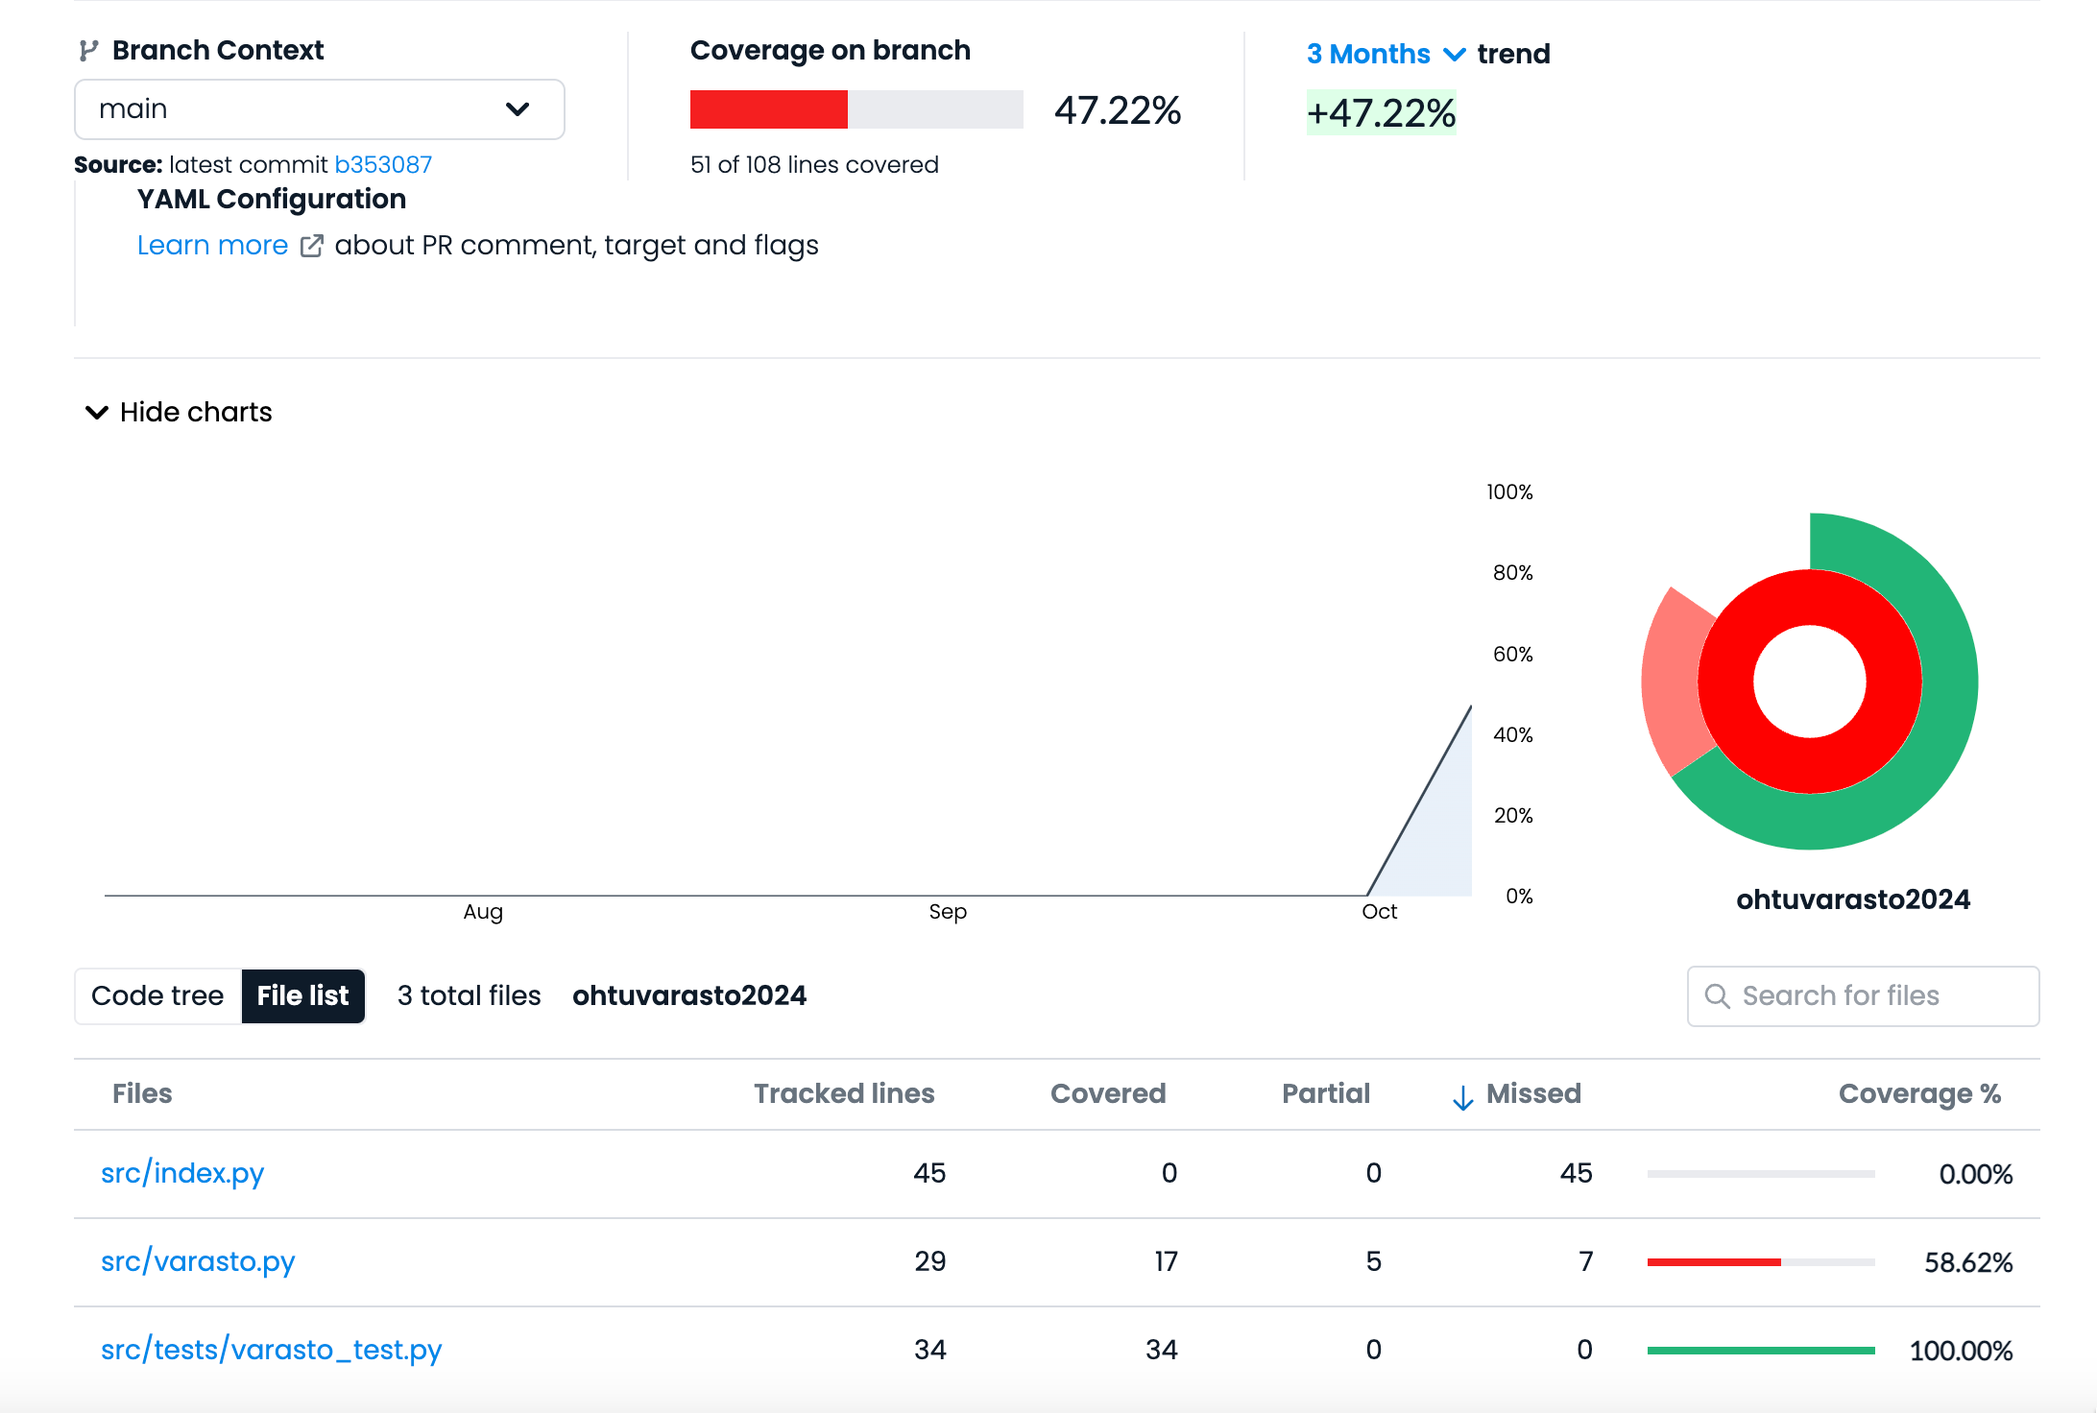
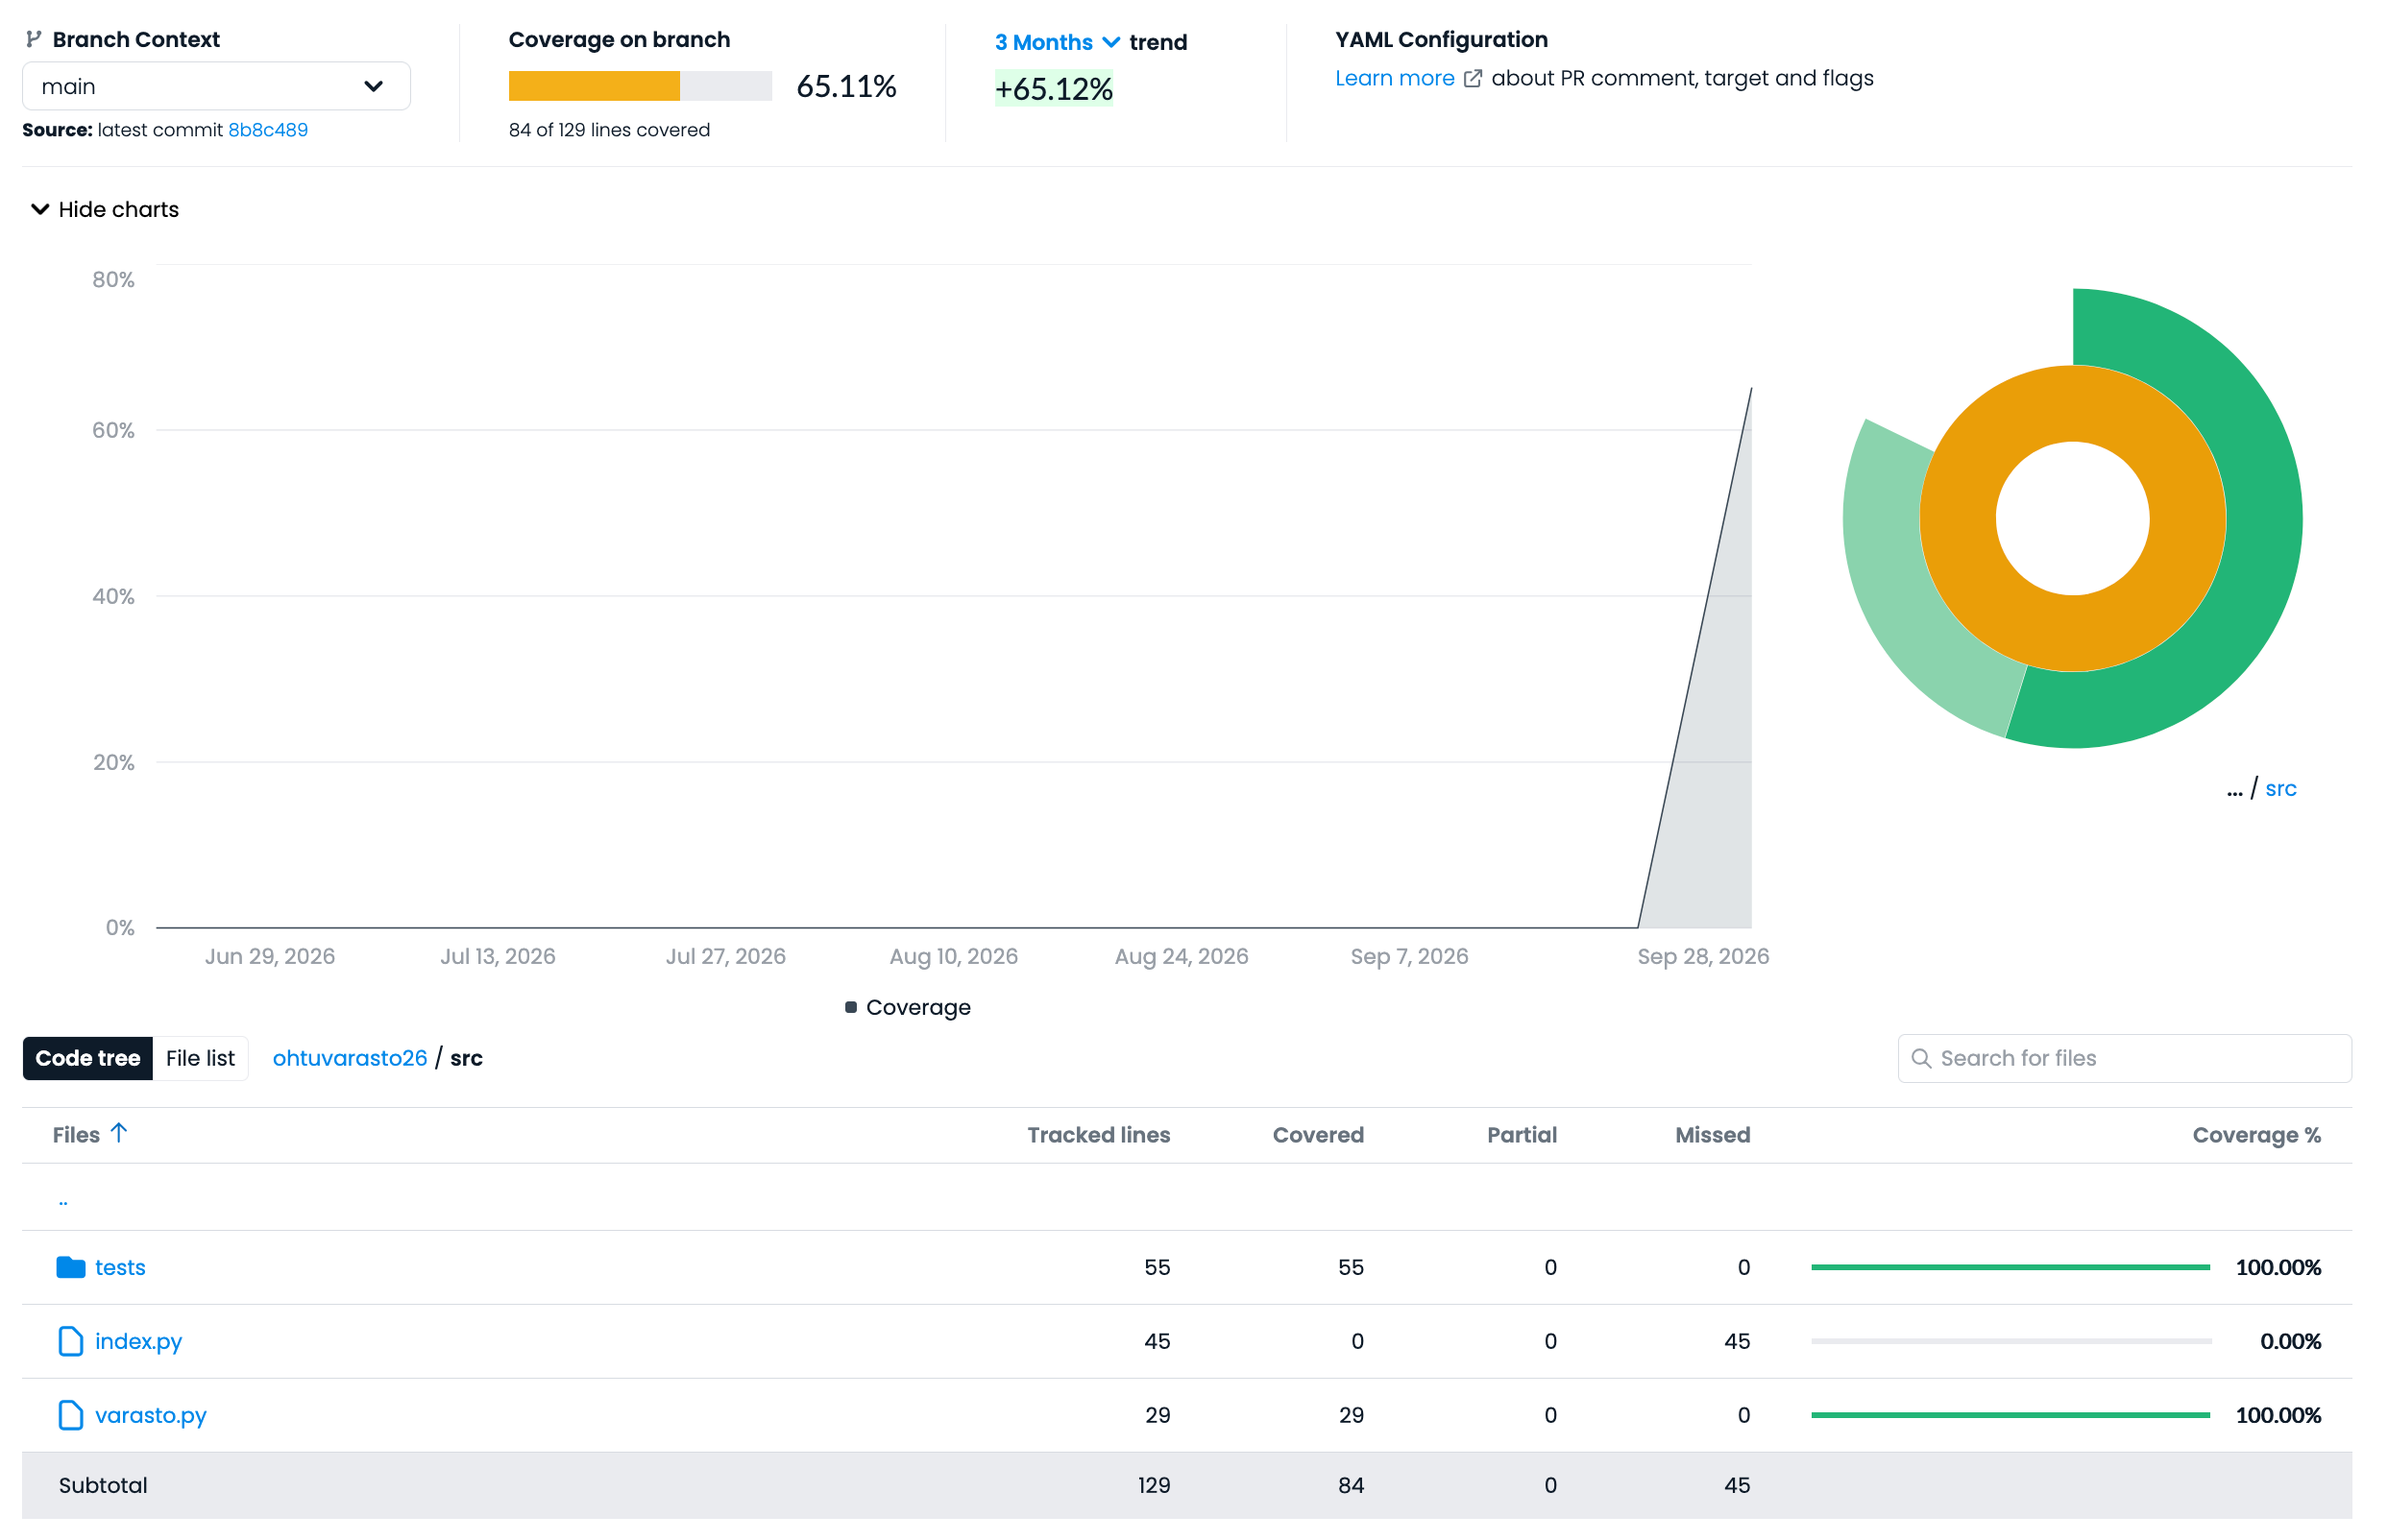
ccov

diff --git a/tehtavat1.md b/tehtavat1.md
@@ -554,7 +554,7 @@ GitHub siis committoi uuden tiedoston automaattisesti repositorioosi.
 
 <input type="checkbox"> Pullaa repositorion koodi omalle koneellesi. Konfiguraatiotiedosto näkyy nyt myös siellä, esim. Visual Studio Code -editorilla se näyttää seuraavalta:
 
-![]({{ "/images/lh1-3-25.png" | relative_url }})
+![]({{ "/images/workflow.png" | relative_url }})
 
 <input type="checkbox"> Avaa repositorion välilehti _Actions_, huomaat että sinne on ilmestynyt hieman tavaraa:
 
@@ -589,6 +589,7 @@ jobs:
         run: uv sync
       - name: Run tests
         run: uv run coverage run --branch -m pytest
+
 ```
 
 Kohta [on](https://docs.github.com/en/free-pro-team@latest/actions/reference/workflow-syntax-for-github-actions#onpushpull_requestbranchestags) määrittelee missä tilanteissa actionit suoritetaan. Konfiguraatiomme määrää, että actionit suoritetaan aina kun repositorion päähaaraan pushataan koodia.
@@ -611,7 +612,7 @@ suorittaa valmiiksi määritellyn actionin [checkout](https://github.com/marketp
 
 Eli _checkout_ action siis hakee repositorion koodin askeleet suorittavalle virtuaalikoneelle.
 
-Toinen askel on action [setup-uv](https://github.com/astral-sh/setup-uv), joka asentaa työn suorittavalle virtuaalikoneelle uv:n, sekä `python-version`-parametrin avulla myös haluamamme Python-version. Jostain syystä versionumero on annettava hipsuissa, eli muodossa '3.14'. Toisin kuin Poetryn kanssa, erillistä setup-python-actionia ei siis tarvita, sillä uv osaa asentaa Python-version itse.
+Toinen askel on action [setup-uv](https://github.com/astral-sh/setup-uv), joka asentaa työn suorittavalle virtuaalikoneelle uv:n, sekä `python-version`-parametrin avulla myös haluamamme Python-version. Versionumero kannattaa antaa lainausmerkeissä, eli muodossa `"3.14"`, sillä muuten YAML tulkitsee sen liukuluvuksi, jolloin esim. versio `3.10` muuttuisi muotoon `3.1`.
 
 ```yml
 - name: Install uv
@@ -635,11 +636,11 @@ Neljäs askel on kaikkein tärkein, se suorittaa uv:n avulla projektin testit ja
 
 Hetken kuluttua actions-välilehdellä pitäisi näkyä että commiteja on kaksi, ja että viimeisin on tilaltaan "punainen":
 
-![]({{ "/images/py-lh1-24-22.png" | relative_url }})
+![]({{ "/images/broken1.png" | relative_url }})
 
 Klikkaamalla rikki mennyttä committia, päästään tarkastelemaan hieman tarkemmin actionin suorituksen etenemistä:
 
-![]({{ "/images/py-lh1-25-22.png" | relative_url }})
+![]({{ "/images/broken2.png" | relative_url }})
 
 Kuten odotettua, testi ei mennyt läpi. Riippuen GitHubin asetuksista, olet myös saattanut saada email-muistutuksen rikki menneestä buildista.
 
@@ -658,25 +659,25 @@ https://github.com/OWNER/REPOSITORY/actions/workflows/WORKFLOW-FILE/badge.svg
 Esimerkiksi omassa tapauksessani badgelinkki on
 
 ```
-https://github.com/mluukkai/ohtuvarasto/actions/workflows/main.yml/badge.svg
+https://github.com/mattiluukkainen/ohtuvarasto26/actions/workflows/main.yml/badge.svg
 ```
 
 <input type="checkbox"> Lisää badge editoimalla tiedostoa _README.md_ suoraan GitHubissa:
 
-![]({{ "/images/py-lh1-27-22.png" | relative_url }})
+![]({{ "/images/badge1.png" | relative_url }})
 
 Oikein toimiva badge näyttää seuraavalta:
 
-![]({{ "/images/py-lh1-28-22.png" | relative_url }})
+![]({{ "/images/badge1.png" | relative_url }})
 
 Badge toimii siis sen indikaattorina onko repositoriossasi oleva koodi testien puolesta kunnossa!
 
 <input type="checkbox"> Tee nyt jokin muutos koneellasi repositorioon johonkin muuhun tiedostoon kuin README.md ja yritä pushata koodi GitHubiin. Toimenpiteestä seuraa virhe:
 
 ```
-To github.com:mluukkai/ohtuvarasto.git
+To github.com:mattiluukkainen/ohtuvarasto26.git
  ! [rejected]        main -> main (fetch first)
-error: failed to push some refs to 'git@github.com:mluukkai/ohtuvarasto.git'
+error: failed to push some refs to 'git@github.com:mattiluukkainen/ohtuvarasto26.git'
 hint: Updates were rejected because the remote contains work that you do
 hint: not have locally. This is usually caused by another repository pushing
 hint: to the same ref. You may want to first integrate the remote changes
@@ -695,7 +696,7 @@ remote: Enumerating objects: 5, done.
 remote: Counting objects: 100% (5/5), done.
 remote: Total 3 (delta 0), reused 0 (delta 0), pack-reused 0
 Unpacking objects: 100% (3/3), 645 bytes | 215.00 KiB/s, done.
-From github.com:mluukkai/ohtuvarasto2
+From github.com:mattiluukkainen/ohtuvarasto26
    6f1cd65..aa6c099  main       -> origin/main
 hint: You have divergent branches and need to specify how to reconcile them.
 hint: You can do so by running one of the following commands sometime before
@@ -709,6 +710,7 @@ hint: You can replace "git config" with "git config --global" to set a default
 hint: preference for all repositories. You can also pass --rebase, --no-rebase,
 hint: or --ff-only on the command line to override the configured default per
 hint: invocation.
+fatal: Need to specify how to reconcile divergent branches.
 ```
 
 Käytännössä Git haluaa tietää minkälaisella strategialla paikallisen ja etärepositoriosi koodi tulisi yhdistää. Vaihtoehdoista kannattanee valita keskimäinen.
@@ -725,7 +727,7 @@ Käytännössä valittu vaihtoehto tarkoittaa sitä, että Git suorittaa uudet l
 
 Jos muutit paikallisesti tiedostoa README.md, saatoit aiheuttaa ns. merge-konfliktin jonka selvittämiseen vaaditaan jo hieman vaivaa. Palaamme asiaan tulevilla viikoilla...
 
-<input type="checkbox"> **Tee vielä** lopuksi badgestasi linkki Actions-välilehdelle. Eli kun badgea painetaan, tulee selaimen ohjautua repositorion Actions-välilehdelle, esim. omassa tapauksessani osoitteeseen <https://github.com/mluukkai/ohtuvarasto/actions>
+<input type="checkbox"> **Tee vielä** lopuksi badgestasi linkki Actions-välilehdelle. Eli kun badgea painetaan, tulee selaimen ohjautua repositorion Actions-välilehdelle, esim. omassa tapauksessani osoitteeseen <https://github.com/mattiluukkainen/ohtuvarasto26/actions>
 
 ### 12. Codecov
 
@@ -735,17 +737,19 @@ Tehtävässä 8 määrittelimme projektin testauskattavuuden coveragen avulla. <
 
 <input type="checkbox"> Lisää repositorio Codecoviin alaisuuteen:
 
-![]({{ "/images/lh1-4-25.png" | relative_url }})
+![]({{ "/images/ccov1.png" | relative_url }})
 
 Saatat joutua odottamaan hetken, ennen kuin Codecov löytää repositoriosi. On myös mahdollista, että joudut vielä sallimaan repositorion näkymisen GitHubin [asetusten](https://github.com/apps/codecov) kautta.
 
-Projektin lisäämisen jälkeen aukeavassa näkymässä oleva _Step 3_ sisältää oleellisen tärkeän asian, eli Codecovin _tokenin_:
+Projektin lisäämisen jälkeen aukeavassa näkymässä oleva **Step 3** sisältää oleellisen tärkeän asian, eli Codecovin _tokenin_:
 
-![]({{ "/images/lh1-5-25.png" | relative_url }})
+![]({{ "/images/ccov2.png" | relative_url }})
 
 Käytännössä Codecovin (repository) token on _avain_, jonka avulla palvelu tunnistaa projektin. Tällaisten avainten käytölle on tyypillistä, että niitä ei haluta kaikkien saataville julkiseen repositorioon.
 
-<input type="checkbox"> Lisää nyt avain Github Actioneiden käyttöön [Codecovin dokumentaatiota](https://docs.codecov.com/docs/adding-the-codecov-token) seuraten. Laajemmin salaisuuksien sisällyttämisestä GitHubiin on kuvattu [GitHubin dokumentaatiossa](https://docs.github.com/en/actions/security-guides/using-secrets-in-github-actions).
+**Unohda askeleet 1 ja 2!** 
+
+<input type="checkbox"> Lisää nyt avain Github Actioneiden käyttöön [tätä ohjetta](https://docs.github.com/en/actions/how-tos/write-workflows/choose-what-workflows-do/use-secrets#creating-secrets-for-a-repository) seuraten.
 
 Saamme muodostettua Codecovin ymmärtämän testikattavuusraportin käyttämällä `coverage html`-komennon sijaan komentoa `coverage xml`. Kyseinen komento muodostaa XML-muotoisen testikattavuusraportin.
 
@@ -768,23 +772,23 @@ Kertauksena:
 
 1. Luo avain Codecovin ohjeiden mukaan
 1. Siirrä avain GitHubin secretiksi (Githubin repossa settings -> secrets and variables / actions -> New repository secret -> nimeksi CODECOV_TOKEN ja arvoksi avain)
-1. Lisää yllä olevat vaiheet GitHub Action -konfiguraatiosio
+1. Lisää yllä olevat vaiheet GitHub Action -konfiguraatiosi
 
 Kun seuraavan kerran koodi pushataan GitHubiin, ilmestyy Codecoviin koodin testikattavuusraportti:
 
-![]({{ "/images/lh1-6-25.png" | relative_url }})
+![]({{ "/images/codecov3.png" | relative_url }})
 
 Käytännössä pyydämme nyt GitHub Actioneja suorittamaan ensin testit ja keräämään testikattavuuden (komennolla `uv run coverage run --branch -m pytest`), jonka jälkeen muodostetaan XML-muotoinen testikattavuusraportti (komennolla `uv run coverage xml`). Tämä testikattavuusraportti lähetetään Codeviin.
 
 GitHub Actionien loki näyttää miten askelten suoritus etenee:
 
-![]({{ "/images/py-lh1-29-22.png" | relative_url }})
+![]({{ "/images/codecov4.png" | relative_url }})
 
 <input type="checkbox"> Lisää repositoriosi README.md-tiedostoon myös Codecov-badge. Löydät badgen repositorion Codecov-sivun Configuration-valikosta.
 
 Projektisi GitHub-sivun tulisi lopulta näyttää suunnilleen seuraavalta:
 
-![]({{ "/images/py-lh1-30-22.png" | relative_url }})
+![]({{ "/images/ccov5.png" | relative_url }})
 
 Huomaa, että GitHub Actionin ja Codecovin badget eivät päivity täysin reaaliajassa. Eli vaikka projektin testikattavuus nousisi, kestää hetken, ennen kuin badge näyttää tuoreen tilanteen.
 
